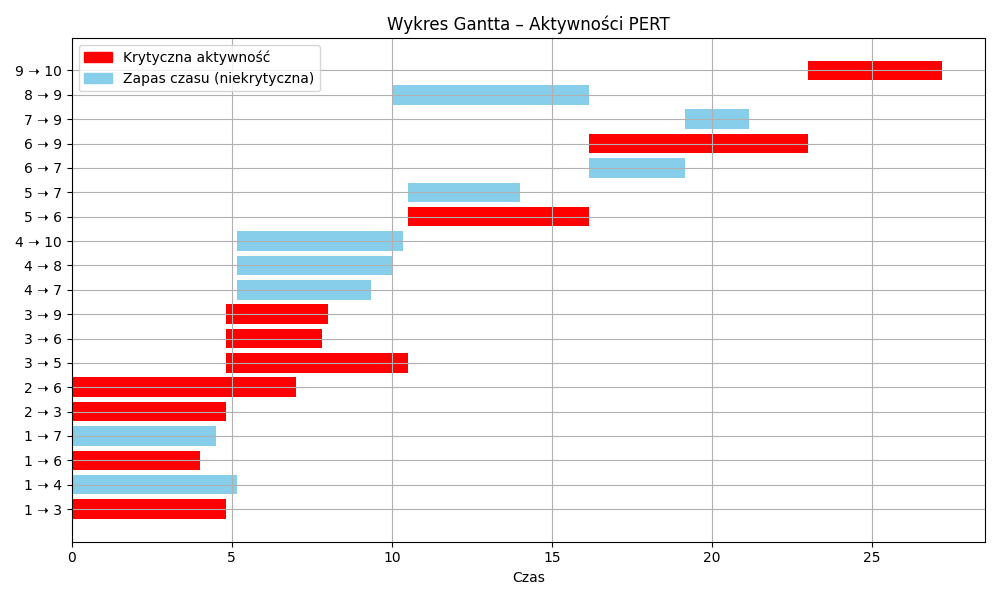
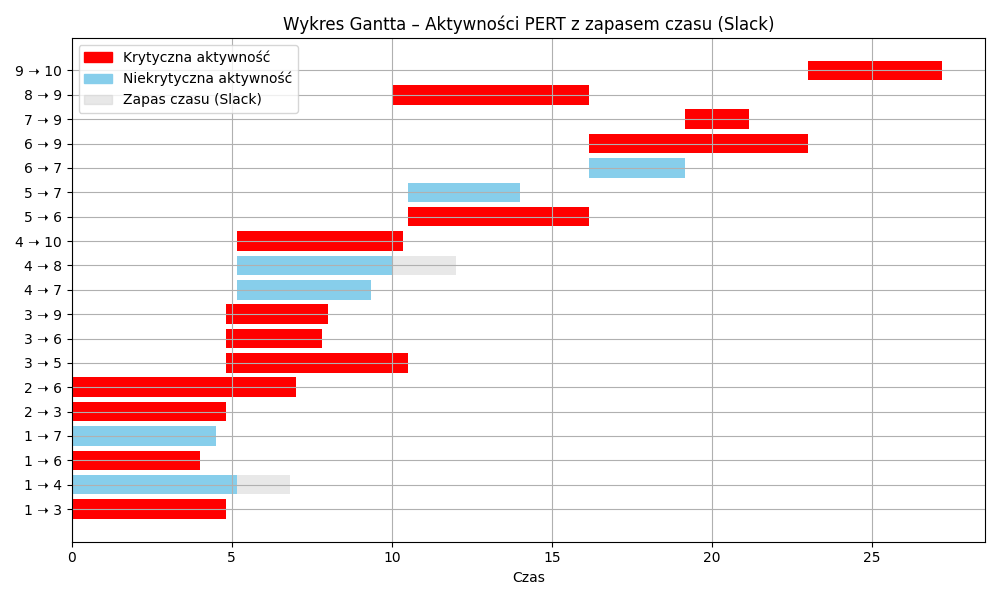
update

diff --git a/source/PERTGraph.cpp b/source/PERTGraph.cpp
@@ -91,8 +91,8 @@ void PERTGraph::printResults() {
     std::cout << "\n";
 }
 
-void PERTGraph::exportGantt(){
-    std::string filename="../GANTT.csv";
+void PERTGraph::exportGantt() {
+    std::string filename = "../GANTT.csv";
     std::ofstream file(filename);
     if (!file.is_open()) {
         std::cerr << "Nie można otworzyć pliku do zapisu!\n";
@@ -100,29 +100,35 @@ void PERTGraph::exportGantt(){
     }
 
     // Nagłówki
-    file << "Od;Do;Start;Czas;Krytyczny\n";
-for (const auto& act : activities) {
-    double start = EF.at(act.from);
-    double czas = act.te;
-    bool critical = (LS.at(act.to) - ES.at(act.to) == 0) && (LS.at(act.from) - ES.at(act.from) == 0);
+    file << "Od;Do;Start;Czas;Slack;Krytyczny\n";
 
-    std::ostringstream sStart, sCzas;
-    sStart << std::fixed << std::setprecision(2) << start;
-    sCzas << std::fixed << std::setprecision(2) << czas;
+    for (const auto& act : activities) {
+        double start = EF.at(act.from);
+        double czas = act.te;
+        double slack = LS.at(act.to) - ES.at(act.to);
+        bool critical = (slack == 0.0);
 
-    std::string startStr = sStart.str(); std::replace(startStr.begin(), startStr.end(), '.', ',');
-    std::string czasStr = sCzas.str(); std::replace(czasStr.begin(), czasStr.end(), '.', ',');
+        std::ostringstream sStart, sCzas, sSlack;
+        sStart << std::fixed << std::setprecision(2) << start;
+        sCzas << std::fixed << std::setprecision(2) << czas;
+        sSlack << std::fixed << std::setprecision(2) << slack;
 
-    file << act.from << ";" << act.to << ";" << startStr << ";" << czasStr << ";" << (critical ? "TAK" : "") << "\n";
-}
+        std::string startStr = sStart.str(); std::replace(startStr.begin(), startStr.end(), '.', ',');
+        std::string czasStr = sCzas.str(); std::replace(czasStr.begin(), czasStr.end(), '.', ',');
+        std::string slackStr = sSlack.str(); std::replace(slackStr.begin(), slackStr.end(), '.', ',');
+
+        file << act.from << ";" << act.to << ";" << startStr << ";" << czasStr << ";" << slackStr << ";"
+             << (critical ? "TAK" : "") << "\n";
+    }
+
     file.close();
     std::cout << "Zapisano dane do pliku: " << filename << std::endl;
     std::cout << "Generowanie wykresu Gantta w Pythonie...\n";
-    
-    //TE LINIE KODU NALEŻY ZMIENIĆ I DOSTARCZYĆ WŁASNĄ ŚCIEZKĘ DO KATALOGU PYTHON.EXE
+
     std::string pythonPath = "\"C:\\Program Files\\Python39\\python.exe\"";
     std::string command = pythonPath + " ../source/generate_gantt.py";
     int result = system(command.c_str());
+
     std::cout << "Kod zakończenia: " << result << "\n";
     if (result != 0) {
         std::cerr << "Nie udało się wygenerować wykresu Gantta!\n";
@@ -130,3 +136,4 @@ for (const auto& act : activities) {
         std::cout << "Wykres Gantta zapisany jako ../GANTT.png\n";
     }
 }
+

diff --git a/source/generate_gantt.py b/source/generate_gantt.py
@@ -2,6 +2,7 @@ import pandas as pd
 import matplotlib.pyplot as plt
 import matplotlib.patches as mpatches
 
+# Wczytanie danych z pliku CSV
 df = pd.read_csv("../GANTT.csv", sep=';', decimal=',')
 
 fig, ax = plt.subplots(figsize=(10, 6))
@@ -10,19 +11,27 @@ for i, row in df.iterrows():
     label = f"{int(row['Od'])} ➝ {int(row['Do'])}"
     start = row['Start']
     duration = row['Czas']
+    slack = row['Slack']
     color = 'red' if row['Krytyczny'] == 'TAK' else 'skyblue'
+
+    # Rysuj cień zapasu (Slack) – szary prostokąt
+    if slack > 0:
+        ax.barh(label, slack, left=start, color='lightgray', alpha=0.5, edgecolor='none')
+
+    # Rysuj główny pasek zadania
     ax.barh(label, duration, left=start, color=color)
 
 # Opisy osi i tytuł
 ax.set_xlabel("Czas")
-ax.set_title("Wykres Gantta – Aktywności PERT")
+ax.set_title("Wykres Gantta – Aktywności PERT z zapasem czasu (Slack)")
 ax.grid(True)
 
-#Dodanie legendy
+# Legenda
 critical_patch = mpatches.Patch(color='red', label='Krytyczna aktywność')
-non_critical_patch = mpatches.Patch(color='skyblue', label='Zapas czasu (niekrytyczna)')
-ax.legend(handles=[critical_patch, non_critical_patch])
+non_critical_patch = mpatches.Patch(color='skyblue', label='Niekrytyczna aktywność')
+slack_patch = mpatches.Patch(color='lightgray', alpha=0.5, label='Zapas czasu (Slack)')
+ax.legend(handles=[critical_patch, non_critical_patch, slack_patch])
 
-# Zapis
+# Zapis do pliku
 plt.tight_layout()
 plt.savefig("../GANTT.png")

diff --git a/source/main.cpp b/source/main.cpp
@@ -24,7 +24,7 @@ int main() {
     g.addActivity(8, 9, 1, 1, 3);
     g.addActivity(8, 9, 4, 6, 9);  // uwaga: powtarzająca się krawędź – możesz pominąć jedną
     g.addActivity(9, 10, 2, 4, 7);
-
+    
     // Obliczamy algorytm PERT
     g.compute();
 
